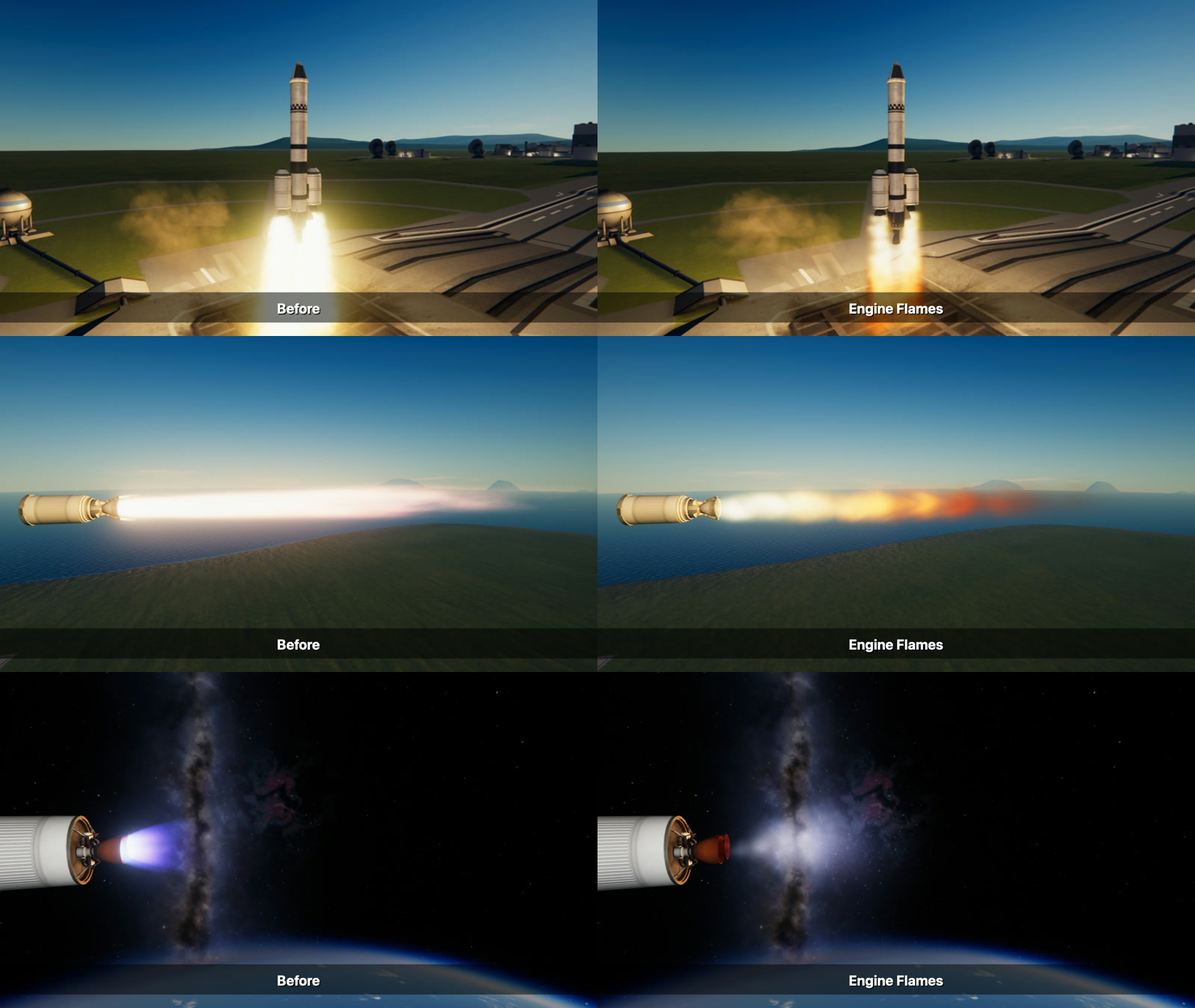
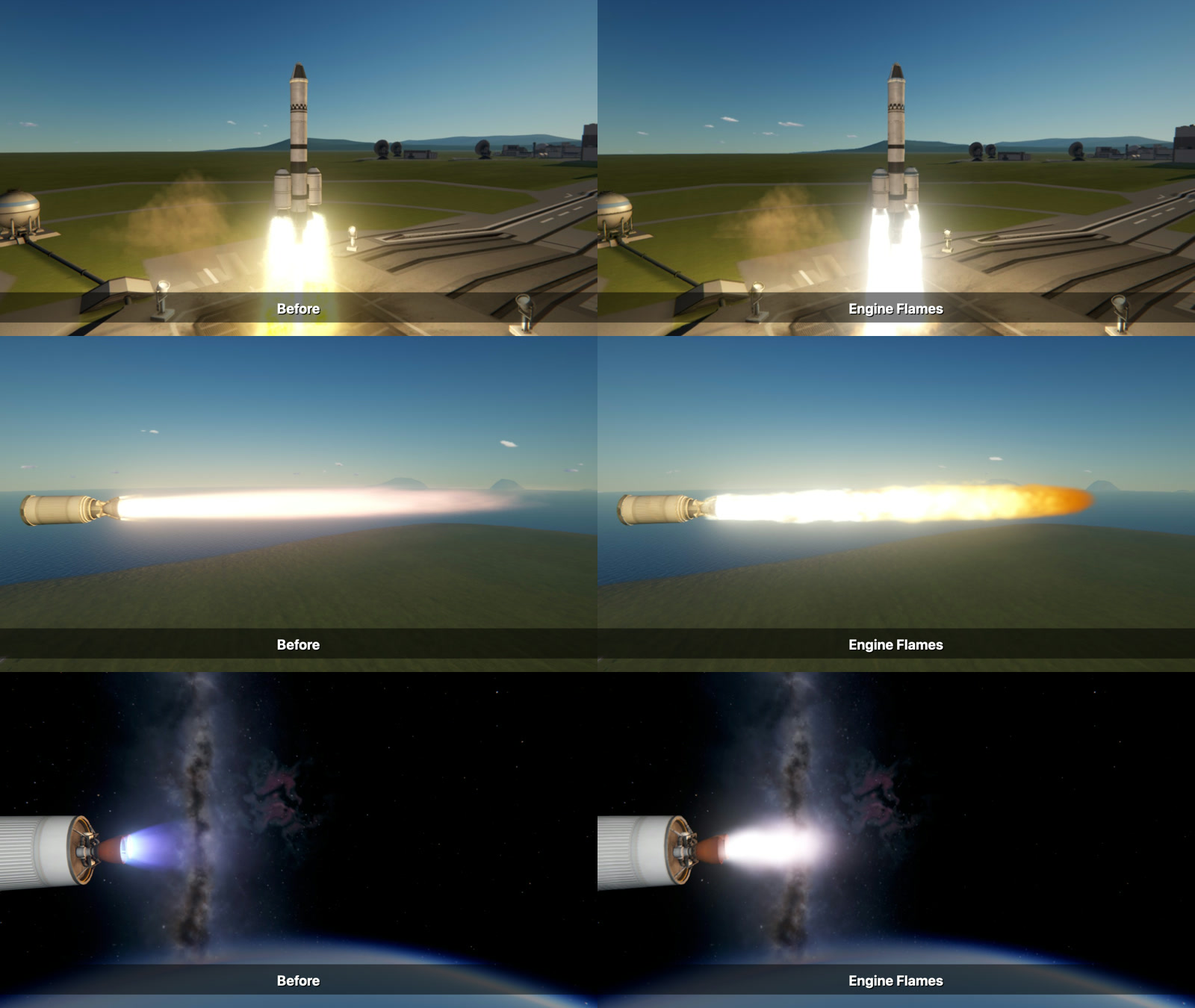
Released 2026-10-11: the mod as it now is, its shaders built for Direct3D 11 on Windows as well as packed for OpenGL, the licence (CC BY 4.0), and what is known to be wrong said in its own notes

diff --git a/src/EngineFlames/Flames.cs b/src/EngineFlames/Flames.cs
@@ -4,7 +4,7 @@ using Keystone;
 using UnityEngine;
 
 #if !DEV
-[assembly: KSPAssembly("EngineFlames", 0, 2)]
+[assembly: KSPAssembly("EngineFlames", 0, 3)]
 [assembly: KSPAssemblyDependency("Keystone", 0, 5)]
 #endif
 
@@ -41,7 +41,7 @@ namespace EngineFlames
     /// </summary>
     static class Fire
     {
-        public const string Version = "0.2.0";
+        public const string Version = "0.3.0";
 
         public static Mod Page;
         public static Toggle On, Hide;
@@ -74,7 +74,8 @@ namespace EngineFlames
         /// <summary>
         /// What a kind of propellant burns like: which of the colours of fire that Volumetric Explosions knows
         /// (Tint: 0 fuel, 1 solid propellant, 2 monopropellant, 4 hydrogen, 5 methane, 6 the fuels that keep,
-        /// 7 gas heated by a reactor), how bright against a kerosene engine's, and how long and wide against the usual.
+        /// 7 gas heated by a reactor), how bright against that kind's own usual, and how long and wide against the usual.
+        /// (What each kind of fire is like, how thick, how bright, how torn, is the explosions mod's to know.)
         /// </summary>
         sealed class Kind
         {
@@ -82,24 +83,27 @@ namespace EngineFlames
             public string Name;
             public int Tint;
             public float Bright = 1f, Long = 1f, Wide = 1f;
+            // (How bright against kerosene's, for the explosions mod before its 0.6.0, which had to be told: since then it
+            // knows what each kind of fire is like, and Bright is against that fuel's own usual.)
+            public float Was = 1f;
         }
 
         static readonly Kind[] Kinds =
         {
-            // Kerosene and oxygen: yellow-white at the heart, orange outside, and plenty of it.
-            new Kind { Fuel = Fuel.Kerosene, Name = "kerosene and oxygen", Tint = 0, Bright = 1f },
-            // Hydrogen and oxygen: nearly no light of its own, pale blue.
-            new Kind { Fuel = Fuel.Hydrogen, Name = "hydrogen and oxygen", Tint = 4, Bright = 0.38f, Long = 1.1f },
+            // Kerosene and oxygen: a blinding white-hot body, yellow and orange where it cools.
+            new Kind { Fuel = Fuel.Kerosene, Name = "kerosene and oxygen", Tint = 0 },
+            // Hydrogen and oxygen: nearly no light of its own, a clear pale blue with shock diamonds in it.
+            new Kind { Fuel = Fuel.Hydrogen, Name = "hydrogen and oxygen", Tint = 4, Was = 0.38f, Long = 1.1f },
             // Methane and oxygen: blue to violet.
-            new Kind { Fuel = Fuel.Methane, Name = "methane and oxygen", Tint = 5, Bright = 0.6f },
-            // Fuels that keep (the small engines of upper stages and landers): a thin clean flame.
-            new Kind { Fuel = Fuel.Storable, Name = "fuels that keep", Tint = 6, Bright = 0.45f, Long = 0.9f },
-            // Solid fuel: brilliant, thick with burning metal, wide and long.
-            new Kind { Fuel = Fuel.Solid, Name = "solid fuel", Tint = 1, Bright = 1.7f, Wide = 1.1f },
+            new Kind { Fuel = Fuel.Methane, Name = "methane and oxygen", Tint = 5, Was = 0.6f },
+            // Fuels that keep (the small engines of upper stages and landers): a clean bright flame, white to pale pink.
+            new Kind { Fuel = Fuel.Storable, Name = "fuels that keep", Tint = 6, Was = 0.45f, Long = 0.9f },
+            // Solid fuel: the brightest of all, thick with burning metal, wide and long.
+            new Kind { Fuel = Fuel.Solid, Name = "solid fuel", Tint = 1, Was = 1.7f, Wide = 1.1f },
             // Monopropellant: steam and nitrogen, all but without light.
-            new Kind { Fuel = Fuel.Mono, Name = "monopropellant", Tint = 2, Bright = 0.14f, Long = 0.7f },
+            new Kind { Fuel = Fuel.Mono, Name = "monopropellant", Tint = 2, Was = 0.14f, Long = 0.7f },
             // Fuel heated by a reactor: hot hydrogen and nothing burning, a faint red.
-            new Kind { Fuel = Fuel.Reactor, Name = "fuel heated by a reactor", Tint = 7, Bright = 0.3f },
+            new Kind { Fuel = Fuel.Reactor, Name = "fuel heated by a reactor", Tint = 7, Was = 0.3f },
         };
 
         /// <summary>The flame of what an engine burns (which fuel each engine is taken as burning is Keystone's to say: see Keystone.Engines), or none.</summary>
@@ -280,7 +284,7 @@ namespace EngineFlames
                 Vector3 along = p.Nozzle.forward, rim = p.Nozzle.position + along * p.Rim;
                 // (an engine throttled down has a shorter flame, and a fainter one)
                 p.Length = Engines.Flame(k.Fuel, p.Radius) * k.Long * longer * (0.3f + 0.7f * Mathf.Sqrt(running));
-                float fire = k.Bright * glow * (0.3f + 0.7f * running);
+                float fire = (Feed.KnowsFuels ? k.Bright : k.Was) * glow * (0.3f + 0.7f * running);
                 bool taken = Feed.Flame(p.Id, rim, along, v.srf_velocity, nozzle, p.Length, running, k.Tint, fire, v.transform);
                 if (taken)
                 {
@@ -537,6 +541,18 @@ namespace EngineFlames
         public static void Hook(Action asked) { VolumetricExplosions.Sources.Asked += asked; }
         public static void Unhook(Action asked) { VolumetricExplosions.Sources.Asked -= asked; }
         public static bool Ready() => VolumetricExplosions.Sources.Ready;
+
+        /// <summary>Whether the explosions mod installed knows for itself how bright each kind of fire is (0.6.0 and later).</summary>
+        public static bool KnowsFuels
+        {
+            get
+            {
+                if (knows == 0) { try { knows = Level() >= 2 ? 1 : -1; } catch (Exception) { knows = -1; } }
+                return knows > 0;
+            }
+        }
+        static int knows;
+        static int Level() => VolumetricExplosions.Sources.Level;
 
         public static bool Flame(int id, Vector3 rim, Vector3 along, Vector3d going, float nozzle, float length, float running, int tint, float fire, Transform ship)
         {

diff --git a/docs/How-it-works.md b/docs/How-it-works.md
@@ -15,38 +15,57 @@ Each bit:
 * keeps most of its speed all the way, and is carried off by the air as that goes by;
 * widens as it goes, taking in the air beside it;
 * is stirred by the air, its edge far more than its middle;
-* cools: white at the nozzle, yellow down most of the flame's length, out through orange in the last third;
+* cools: white-hot for more than half the flame's length, then yellow, and out through orange at its end;
 * is turned where it strikes the ground or a building, and runs on along it.
 
-A few hundred of these are alive at once for each nozzle. They are put on a grid of cells, as a blast's
+About thirteen hundred of these are alive at once for each nozzle. They are put on a grid of cells, as a blast's
 smoke and fire are, and the grid is drawn as one lit volume: for every pixel the line of sight is walked
-through it and the light of the gas along it is added up. The flame's edge, its flicker, its reach and the
-way it lies on a launch pad are whatever the gas did. Nothing of them is laid down beforehand.
+through it and the light of the gas along it is added up. The flame's reach, its flicker, the way it is swept
+back when a ship flies aslant and the way it lies on a launch pad are whatever the gas did. (What is laid
+down beforehand: the pattern that streaks it and tears its edge, and a clear flame's shock diamonds. See below.)
 
 This mod's own part in it is small. It says which engines are rocket engines, what each burns, where each
 nozzle's mouth is and how wide, and how hard the engine is running; and it hides the flames the game had.
 
-## How it is drawn, so that it looks like fire
+## How it is drawn: bright first, then fire
 
-The gas goes through a flame at a hundred metres a second and more. A pattern carried with it, as an
-explosion's billows are carried with its smoke, moves many pixels from one frame to the next, and the game's
-smoothing between frames (the TAA of TUFX) smears it to nothing: as first made (0.2.0) the flame was, in the
-user's words, "kind of just like blurred color". So since Volumetric Explosions 0.5.0 a ship's flame is drawn
-with a pattern of its own that is held in the nozzle's frame: read in the jet's own measure, drawn out three
-times along the jet, and carried down it at a walking pace, so that it stays sharp and still reads as flowing.
+The first flames made this way (0.2.0) were thin: the gas glowed faintly, cooled to orange a quarter of the
+way down, and was torn into wisps along its whole length. Set beside the game's own flame, a long white-hot
+bar, it looked weak, and the game's was the one that looked like a rocket. Since 0.3.0 (with Volumetric
+Explosions 0.6.0) a kerosene or solid-fuel flame is what a real one is to a camera, blinding:
 
-* **Tongues.** Where the flame is thin (its edge, its far end) the pattern tears it into tongues with sharp
-  edges; where it is thick it burns whole.
-* **A white-hot core in a cooler sheath.** The gas at the edge of the jet starts cooler than at its middle, so
-  the core is white and the sheath yellow and orange, which is where the tongues are.
-* **Streaks.** Brighter and dimmer along the pattern, and hotter and cooler with it.
-* **Each fuel its own.** Kerosene: ragged and sooty (its soot darkens the cooler streaks of its outer part),
-  with faint shock diamonds. Hydrogen: a clear, smooth flame, whole wherever there is any of it, with four or
-  five shock diamonds that glow of themselves (with tongues torn into it, a hydrogen flame looked like cloud).
-  Methane between the two. A solid motor's: dense, bright, ragged, hardly any diamonds. In thin air all of it
-  smooths out into a pale bell, and the diamonds go.
-* **Drawn whole.** A ship's flames are drawn at the screen's own size (the smoke round about at half size, as
-  ever): enlarged from half size, the fine tongues were lost.
+* **A solid white-hot body.** Enough gas, close enough together, that the jet hides what is behind it and
+  burns out the picture: several times as bright as white paper in the sun, with the glow round it that the
+  game's own picture gives anything that bright. It leaves the nozzle hotter than white-hot and so stays white
+  for more than half its length.
+* **Brightness goes with heat, steeply.** The white-hot part is ten times as bright as the cooled orange end.
+  (Nearly as bright at every heat, as at first, the orange end was cut off to a flat yellow by the picture.)
+* **A steady outline.** The bits of gas leave the nozzle's mouth in turn from a list that fills it evenly, not
+  by chance, and there are three times as many: the jet's edge is a straight line at the nozzle, not a row of
+  bulges that changed every frame.
+* **Fire where there would be fire.** A thin cooler sheath, yellow and orange, where the jet meets the air;
+  the air tears its edge more and more the further down it, hardly at all at the nozzle; and at its far end
+  the flame cools out through yellow into ragged orange tongues with gaps between them.
+* **A pattern that flows.** Held in the nozzle's frame (the gas's own, going a hundred metres a second and
+  more, is smeared to nothing by the game's smoothing between frames, the TAA of TUFX: 0.2.0 was first "kind
+  of just like blurred color"). It is carried down the jet fast at the nozzle, where that smoothing draws it
+  out into streaks, as gas going that fast looks, and slower and less drawn out the further down, until at
+  the flame's end it is the slow lumps of a fire; and it opens out with the jet.
+* **Drawn whole.** A ship's flames are drawn at the screen's own size (the smoke round about at half size).
+
+## Each fuel its own
+
+| Fuel | At the ground |
+| --- | --- |
+| kerosene | white-hot, yellow, then orange tongues: as above |
+| solid fuel | the same, thicker and brighter still |
+| hydrogen | a clear pale veil one sees through, with four or five shock diamonds standing in it: a bright disc where each shock stands, narrowing to a point behind it. In the jet of every nozzle, up to eight |
+| methane | bright, half clear, blue-white to violet, with diamonds |
+| the fuels that keep | a bright clean flame, white to pale pink, thinning away |
+| monopropellant, a reactor's | faint and clear |
+
+A hydrogen flame is not made bright: it has next to no light of its own, and a thick white one looked like a
+kerosene flame painted white. Its diamonds are what is seen of it.
 
 ## The air that goes along with the ship
 
@@ -78,15 +97,18 @@ How thin the air is shapes the flame all the way up:
 | | At the pad | 8 km up | 16 km | 26 km | Vacuum |
 | --- | --- | --- | --- | --- | --- |
 | Air (Kerbin), against sea level | 1 | about a quarter | about a twentieth | under a hundredth | none |
-| How much wider the jet gets for each metre it goes | 0.035 m | 0.08 | 0.14 | 0.23 | 0.36 |
-| How far it reaches, against its length at the pad | all of it | 0.93 | 0.82 | 0.67 | 0.45 |
+| How much wider the jet gets for each metre it goes | 0.035 m | 0.08 | 0.14 | 0.23 | it fans out from the lip, 27 degrees each way |
+| How far it reaches, against its length at the pad | all of it | 0.93 | 0.82 | 0.67 | a few nozzles' widths |
 | Its edge | torn | | less | nearly smooth | smooth |
-| Its colour as it goes | white, yellow, orange | | | paler: it thins before it cools | white, fading |
+| What is seen | a white-hot body, orange at its end | | | a wide clear flame, white to yellow | a bright lobe at the nozzle |
 
-In thick air the jet is held to a narrow column, the air tears its edge, and it cools through orange
-before it is spent. With little air or none there is nothing to hold it in and nothing to tear it: it
-opens into a wide bell, is spent in half the length, and stays pale because it has spread to nothing
-before it has cooled.
+In thick air the jet is held to a narrow column, the air tears its edge, and it cools through orange before
+it is spent. As the air thins there is less to hold it in and less to tear it: it opens out, its soot and its
+sharp edge go, and what is seen is the light of the hot gas alone. With none, the gas fans out from the
+nozzle's lip and cools as it spreads, and all that shows is a bright clear lobe at the nozzle, most of it
+along the jet's line, gone within a few nozzles' widths: whatever burns, though each in its own colour.
+(How fast the gas cools is reckoned by the time gone, not by the frame: reckoned by the frame, as at first,
+a vacuum plume was twice as long at thirty frames a second as at sixty.)
 
 ## The ground
 
@@ -100,15 +122,18 @@ that is installed, rolls up from it. The same is done for buildings and for othe
 See [flames for other engines](Other-engines.md). What is burning sets the flame's colours, how bright it
 is, and a little of its length and width:
 
-| Fuel | Colours | How bright, against kerosene |
+| Fuel | Colours | How thick its gas is, against kerosene's |
 | --- | --- | --- |
 | kerosene | white, yellow, orange | 1 |
-| hydrogen | white to pale blue | 0.38 |
-| methane | white to blue and violet | 0.6 |
-| the fuels that keep | white to blue-white | 0.45 |
-| solid fuel | white, yellow, orange, and whiter than kerosene | 1.7 |
-| monopropellant | pale yellow | 0.14 |
-| fuel heated by a reactor | a faint red | 0.3 |
+| hydrogen | white to pale blue | 0.08 |
+| methane | white to blue and violet | 0.25 |
+| the fuels that keep | white to pale pink | 0.3 |
+| solid fuel | white, yellow, orange, and whiter than kerosene | 1.5 |
+| monopropellant | pale yellow | 0.12 |
+| fuel heated by a reactor | a faint red | 0.15 |
+
+(These are Volumetric Explosions' to know since its 0.6.0: this mod says only which fuel, and how hard the
+engine is running.)
 
 ## Starting and stopping
 
@@ -126,23 +151,34 @@ off, or the setting "Hide the game's own flames", and they are back.
 
 ## What it costs
 
-About what the flames it hides cost. One flight each way of a Kerbal X (a Mainsail and six Swivels) from
-the pad, on an Apple M5 Pro at 1280 by 720 with Scatterer, EVE, TUFX, Waterfall and Natural Light
-installed, the game drawing as fast as it could: 39 frames a second leaving the pad with the game's and
-Waterfall's flames and 42 with these; 45 and 49 on the climb, seen from the chase camera; 50 and 49
-standing on the pad before it was lit. At the end of the climb the seven flames were 3,400 bits of gas in
-one patch of air. Not measured: the camera inside a flame, a ship of dozens of nozzles, a slower computer.
+Less than the flames it hides, where it was measured: a Kerbal X (a Mainsail and six Swivels) from the pad,
+with Rocket Smoke's smoke in both, on an Apple M5 Pro at 1280 by 720 with Scatterer, EVE, TUFX, Waterfall,
+Natural Light and Natural Weather installed, the game drawing as fast as it could, two flights each way
+(0.3.0, 2026-10-10):
+
+| | Standing on the pad | Its first 4 s | 4 to 8 s | 8 to 12 s | 12 to 16 s |
+| --- | --- | --- | --- | --- | --- |
+| The game's and Waterfall's flames | 53 frames a second | 35, 38 | 40 | 40 | 42 |
+| These | 53 | 41, 40 | 44 | 44 | 46 |
+
+The seven flames were about 6,000 bits of gas in one patch of air, three times what they were in 0.2.0. Not
+measured: the camera inside a flame, a ship of dozens of nozzles, a slower computer.
 
 ## What it does not do
 
-* **Shock diamonds.** The first version drew them. Gas worked out in bits a third of a nozzle across does
-  not form them, and none are drawn on top.
+* Shock diamonds that come of the gas itself: gas worked out in bits a third of a nozzle across does not
+  form them. The ones in a hydrogen or methane flame are drawn where they would stand, in up to eight of a
+  ship's jets; a kerosene or solid-fuel flame is too bright for any to show, as a real one's is to a camera.
 * Light on the ship and the ground. It gives off none: what lights the pad at lift-off in the pictures
   is the Natural Light mod's lamps at the engines, where that is installed, or nothing. (It does light the
   smoke of Rocket Smoke.)
 * Smoke. That is Rocket Smoke's; without it the game's own smoke is left as it is.
 * Anything where Volumetric Explosions cannot draw a volume: there it says so and leaves the game's flames.
   (On Windows that mod's shaders are built for Direct3D, and the flames were seen there on 2026-10-10, by day
-  and by night, liquid engines and solid boosters.)
-* More than four ships' flames at once, and no more than about 1,500 bits of gas a second from any one
-  nozzle: a cluster of very many engines is drawn with fewer bits each as the scene fills up.
+  and by night, liquid engines and solid boosters: as they were in 0.2.0. The bright flames of 0.3.0 were seen
+  there on 2026-10-11, by day, with Volumetric Explosions 0.6.3's shaders built for Direct3D again that day:
+  Kerbal X and Kerbal 1-5 from the pad, as on OpenGL on the same computer. Not at night, and no shock diamonds
+  made out from 75 m.)
+* More than four ships' flames at once, and no more than about 5,000 bits of gas a second from any one
+  nozzle (some 1,300 alive at a time): a cluster of very many engines is drawn with fewer bits each as the
+  scene fills up.

diff --git a/README.md b/README.md
@@ -1,15 +1,15 @@
 # Engine Flames
 
-A rocket engine's exhaust as burning gas: it leaves the nozzle, is slowed and stirred by the air, widens,
-cools from white through yellow to orange, strikes the ground and runs out over it. Worked out bit by bit
-and drawn as a true volume, the way [Volumetric Explosions](https://github.com/IshiakiZ/ksp-volumetric-explosions) makes its
-fire, in whose air it burns.
+A rocket engine's exhaust as burning gas: a blinding white-hot jet that leaves the nozzle, is stirred by the
+air, widens, cools out through yellow into orange tongues, strikes the ground and runs out over it. Worked
+out bit by bit and drawn as a true volume, the way [Volumetric Explosions](https://github.com/IshiakiZ/ksp-volumetric-explosions)
+makes its fire, in whose air it burns.
 
 ![Six flames: lift-off by day and by night, kerosene, hydrogen, thin air, a vacuum](src/EngineFlames/img/engine-flames.jpg)
 
-For Kerbal Space Program 1.12.x. Needs [Volumetric Explosions](https://github.com/IshiakiZ/ksp-volumetric-explosions) 0.4.0 or
-later (0.5.0 for the look described below as fire, tongues and diamonds) and [Keystone](https://github.com/IshiakiZ/ksp-keystone);
-both come in the download. It works beside the Waterfall mod
+For Kerbal Space Program 1.12.x. Needs [Volumetric Explosions](https://github.com/IshiakiZ/ksp-volumetric-explosions) 0.6.0 or
+later for the look described here (it runs with 0.4 and 0.5, as dimmer and thinner flames) and
+[Keystone](https://github.com/IshiakiZ/ksp-keystone); both come in the download. It works beside the Waterfall mod
 or without it: while one of its flames burns for an engine, the flame the game or Waterfall draws for that
 engine is hidden, and the smoke is left.
 
@@ -19,21 +19,25 @@ settings and leaves the game's flames as they are.
 
 ## What it does
 
-* **Worked out, not drawn.** A flame is some hundreds of bits of gas for each nozzle, each moved, widened,
-  stirred and cooled frame by frame, and all of them drawn as one lit volume. Its edge, its flicker and
-  its reach are what the gas did: nothing of its shape is laid down beforehand.
-* **Fire, not a glow** (with Volumetric Explosions 0.5.0). Its pattern holds its place on the nozzle and flows
-  down the jet: tongues torn at its edge, streaks along it, a white-hot core in a yellow and orange sheath,
-  soot in a kerosene flame, a few shock diamonds in a hydrogen one. (Before, it was "kind of just like
-  blurred color", in the words of the first person to see it.)
-* **The air shapes it.** A narrow torn column at the pad; wider and paler as the air thins; a smooth pale
-  bell in a vacuum. It changes all the way up, not in steps.
+* **Bright, as a rocket's flame is** (0.3.0). A kerosene or solid-fuel engine's jet is a solid body of
+  white-hot gas, several times as bright as white paper in the sun, that burns out the picture and glows:
+  white for more than half its length, then yellow, and ending in ragged orange tongues. (The first flames
+  made this way were thin and orange beside the game's own; in the words of the one who asked for this,
+  the game's are "super bright and powerful", and these are now as bright.)
+* **Worked out, not drawn.** A flame is some thirteen hundred bits of gas for each nozzle, each moved,
+  widened, stirred and cooled frame by frame, and all of them drawn as one lit volume. Its reach, its
+  flicker and the way it meets the ground are what the gas did.
+* **Fire, not a glow.** A thin yellow and orange sheath where the jet meets the air, torn more the further
+  down it; streaks that flow down it; tongues with gaps between them at its far end.
+* **What burns shows.** Kerosene and solid fuel blinding; hydrogen a clear pale veil with shock diamonds
+  standing in it, in the jet of every nozzle; the small upper-stage engines a clean white-to-pink flame;
+  a nuclear engine a faint red.
+* **The air shapes it.** A narrow column at the pad; wider and clearer as the air thins; in a vacuum the
+  gas fans out from the nozzle's lip and what shows is a bright clear lobe. It changes all the way up.
 * **It strikes the ground.** The flame of a rocket on its pad is turned by the pad and runs out over it
   as a sheet of fire; it does the same on a building, the ground or another craft.
 * **It stays on its nozzle.** The air it burns in goes along with the ship, so the flame is as steady at
   nine hundred metres a second as on the pad, and is swept back when the ship flies aslant.
-* **What burns shows.** Kerosene white, yellow and orange; hydrogen pale blue and nearly without light; the
-  small upper-stage engines blue-white; solid boosters brilliant; a nuclear engine a faint red.
 
 ![The same craft at the same place, before and with Engine Flames](src/EngineFlames/img/engine-flames-beside.jpg)
 
@@ -43,7 +47,7 @@ the Waterfall mod's on the liquid engines. The smoke in all of them is the game'
 
 ## Install
 
-Copy the `Keystone`, `VolumetricExplosions` and `EngineFlames` folders from the download's `GameData` into
+Copy the `Keystone`, `VolumetricExplosions` and `EngineFlames` folders from the download into
 your KSP `GameData`.
 
 ## Settings
@@ -60,21 +64,30 @@ In the Keystone window (the keystone button on the game's toolbar, or Option-K o
 
 ## Good to know
 
+* **It does not yet move as fire does** (found by playing, 2026-10-11): the flame keeps its line when the ship
+  turns, like a rod, where a real one's cooler end would trail; and nothing in it is seen to stream, so it looks
+  slow. Being reworked: the gas is to slow along the jet as a real one does, and to be left behind by a nozzle
+  that swings away from it.
 * Rocket engines only. Jets, ion engines and engines that burn something it does not know keep the flames
   they had.
 * The game has one fuel for every liquid engine. Which real fuel each of the game's engines is taken as
   burning is the mod's own choice, by the engine each was modelled on; a config can say otherwise for any
   part, and say it for other mods' engines. See [flames for other engines](docs/Other-engines.md).
-* No shock diamonds. The first version, which drew its flames as shapes, drew them; gas worked out in
-  bits does not form them.
+* Shock diamonds are drawn where they would stand in a hydrogen or methane flame, in up to eight of a
+  ship's jets; they do not come of the gas itself. A kerosene or solid-fuel flame is too bright for any to
+  show.
+* How bright a flame is to the eye also depends on the camera: where [Natural Light](https://github.com/IshiakiZ/ksp-natural-light)
+  is installed its exposure closes a little for a flame by day and a good deal by night, as a real camera's does.
 * It gives off no light of its own on the ship or the ground (the [Natural Light](https://github.com/IshiakiZ/ksp-natural-light)
   mod's engine lamps do that); it does light the smoke of [Rocket Smoke](https://github.com/IshiakiZ/ksp-rocket-smoke), which
   is made to go with it.
-* It costs about what the flames it hides cost. A Kerbal X (seven engines) left the pad at 39 frames a
-  second with the game's and Waterfall's flames and at 42 with these, and climbed at 45 and at 49 (one
-  flight each way, on an Apple M5 Pro at 1280 by 720, with Scatterer, EVE, TUFX and Natural Light).
-* Made on 2026-10-09 and looked at in pictures and frame by frame: on a test stand from the pad to a
-  vacuum, at lift-off by day and night, and on climbs to thirty kilometres. Nobody has played with it yet.
+* It costs less than the flames it hides, where it was measured. A Kerbal X (seven engines) left the pad
+  at 35 to 38 frames a second with the game's and Waterfall's flames and at 40 with these, and climbed at 40
+  to 42 and at 44 to 46 (two flights each way, on an Apple M5 Pro at 1280 by 720, with Scatterer, EVE, TUFX,
+  Natural Light, Natural Weather and Rocket Smoke).
+* Made on 2026-10-09, made bright on 2026-10-10, and looked at in pictures and frame by frame: on a test
+  stand from the pad to a vacuum (a Mainsail, a Swivel, a Kickback, a Vector, a Mammoth, a Poodle, a Spark,
+  a Nerv), at lift-off by day and night, and on a climb. Nobody has played with it yet.
 * Made and tried on a Mac; tried on Windows too (see below).
 
 ## Where it works
@@ -82,7 +95,11 @@ In the Keystone window (the keystone button on the game's toolbar, or Option-K o
 | System | |
 | --- | --- |
 | Mac | Made and tried here (KSP 1.12.5, OpenGL). |
-| Windows | Tried on Windows 11 (KSP 1.12.5, Direct3D 11), with Volumetric Explosions' shaders built for Direct3D: Kerbal X from the pad to thin air, its flames drawn into the explosions' volume ("1 flame is burning" on its page) and widening into a soft plume high up. Then at night (the sun 23 degrees down): Kerbal X's flames a bright plume climbing into the dark, 72 frames a second at lift-off (the game's cap not lifted); and solid boosters at night (Kerbal 1-5's two Hammers): two orange flames climbing on their trail, 102 frames a second. Not looked at there: Waterfall. |
+| Windows | Tried on Windows 11 (KSP 1.12.5, Direct3D 11), with Volumetric Explosions' shaders built for Direct3D: Kerbal X from the pad to thin air, its flames drawn into the explosions' volume ("1 flame is burning" on its page) and widening into a soft plume high up. Then at night (the sun 23 degrees down): Kerbal X's flames a bright plume climbing into the dark, 72 frames a second at lift-off (the game's cap not lifted); and solid boosters at night (Kerbal 1-5's two Hammers): two orange flames climbing on their trail, 102 frames a second. All of that was 0.2.0. Then 0.3.0's bright flames (2026-10-11, by day, with Volumetric Explosions 0.6.3 and its shaders built for Direct3D again that day): Kerbal X from the pad, filmed from 75 m: at ignition a white flame under the rocket and a ring of orange fire on the pad's grate; as it left, a flame longer than the rocket, white at the nozzles and yellow to orange behind, with a glow round it, and the pad lit white by it; followed up to 700 m, white at the nozzles and running into its brown smoke. Kerbal 1-5's two solid boosters: a flame each, as bright. Both launches looked the same filmed on OpenGL on the same computer (the game started with `-force-glcore`); the first was seen again with TUFX taken out (less glow round the flame), and on the release builds. Shock diamonds could not be made out from that far. Not looked at there: 0.3.0 at night, Waterfall. |
 | Linux | **Never run.** It uses the same OpenGL shader as the Mac. |
 
 More: [how it works](docs/How-it-works.md).
+
+## Licence
+
+[CC BY 4.0](LICENSE): use it, change it and pass it on as you like, as long as you credit Ishiaki and link back here.
